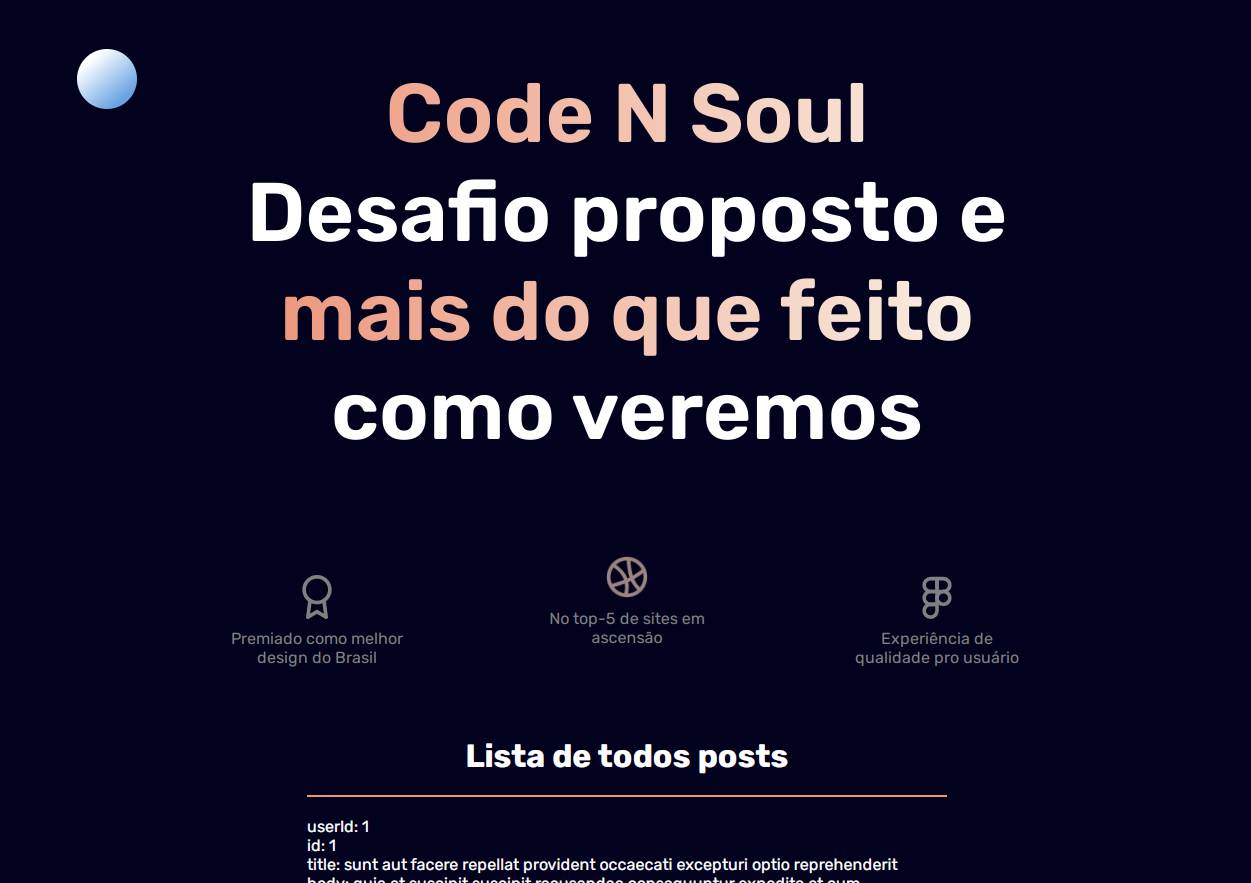
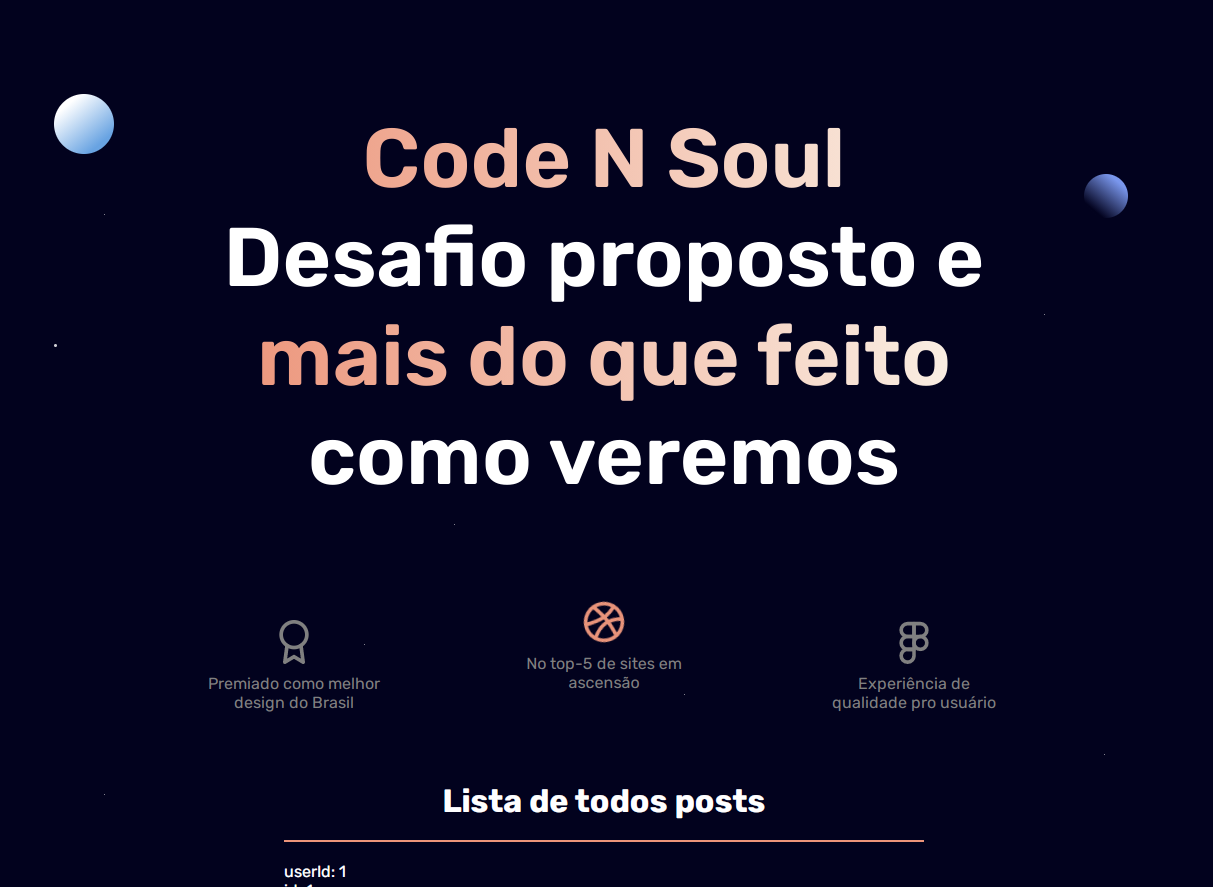
adding starts+planets in the home page

diff --git a/src/views/List.tsx b/src/views/List.tsx
@@ -26,11 +26,26 @@ function List() {
   return (
     <div className="main">
       <div className="container">
-        <div className="whiteCircle" />
+        <div className="starsContainer">
+          <div className="uranusPlanet" />
+          <div className="neptunePlanet" />
+
+          <div className="oneBigStar" />
+
+          <div className="one litteStar" />
+          <div className="two litteStar" />
+          <div className="three litteStar" />
+          <div className="four litteStar" />
+          <div className="five litteStar" />
+          <div className="six litteStar" />
+          <div className="seven litteStar" />
+
+        </div>
+
         <section className="titleHeader">
           <div className="textHeader">
-              <div className="gradient"> Code N Soul </div> Desafio proposto e
-              <div className="gradient"> mais do que feito </div> como veremos
+            <div className="gradient"> Code N Soul </div> Desafio proposto e
+            <div className="gradient"> mais do que feito </div> como veremos
           </div>
         </section>
 

diff --git a/src/styles/global.css b/src/styles/global.css
@@ -28,8 +28,12 @@ a:hover {
   transition: 0.3s;
 }
 
-.whiteCircle {
+.container .starsContainer div {
   position: absolute;
+  border-radius: 50%;
+}
+
+.uranusPlanet {
   height: 60px;
   width: 60px;
   margin: 100px -150px;
@@ -37,4 +41,53 @@ a:hover {
   border-radius: 50%;
 
   background: linear-gradient(320deg, #68a3e2 20%, #fff 80%);
+}
+
+.neptunePlanet {
+  height: 44px;
+  width: 44px;
+  margin: 180px 880px;
+
+  border-radius: 50%;
+
+  background: linear-gradient(40deg, #02021E 20%, #7996EC 80%);
+}
+
+.oneBigStar {
+  height: 3px;
+  width: 3px;
+  margin: 350px -150px;
+
+  background: #fff;
+  opacity: 80%;
+}
+
+.litteStar {
+  height: 1px;
+  width: 1px;
+
+  background: #fff;
+  opacity: 50%;
+}
+
+.one {
+  margin: 220px -100px;
+}
+.two {
+  margin: 800px -100px;
+}
+.three {
+  margin: 530px 250px;
+}
+.four {
+  margin: 650px 160px;
+}
+.five {
+  margin: 700px 480px;
+}
+.six {
+  margin: 320px 840px;
+}
+.seven {
+  margin: 760px 900px;
 }
